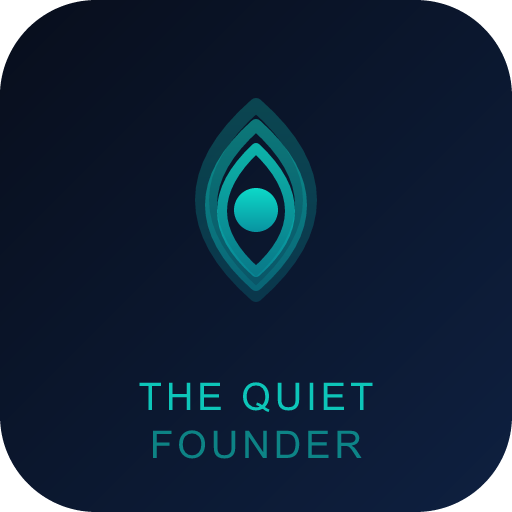
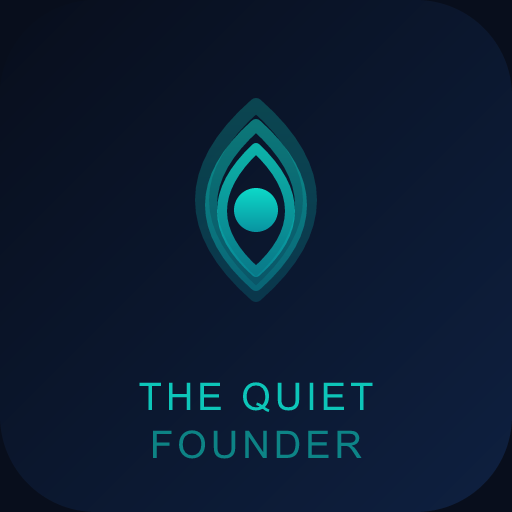
Updated

diff --git a/index.html b/index.html
@@ -10,16 +10,21 @@
     <meta property="og:title" content="The Quiet Founder | அமைதியான நிறுவனர்" />
     <meta property="og:description" content="A Sales & Marketing Bible for the AI Era. Discover markets, sell anything, and scale revenue — alone, online, and outnumbered." />
     <meta property="og:site_name" content="The Quiet Founder" />
+    <meta property="og:image" content="./og-image.png" />
+    <meta property="og:image:width" content="1200" />
+    <meta property="og:image:height" content="630" />
     <meta name="twitter:card" content="summary_large_image" />
     <meta name="twitter:title" content="The Quiet Founder | அமைதியான நிறுவனர்" />
     <meta name="twitter:description" content="A Sales & Marketing Bible for the AI Era. Discover markets, sell anything, and scale revenue — alone, online, and outnumbered." />
+    <meta name="twitter:image" content="./og-image.png" />
+    <link rel="apple-touch-startup-image" href="./pwa-icons/splash-1024.png" />
     <title>The Quiet Founder | அமைதியான நிறுவனர்</title>
     <link rel="manifest" href="./manifest.json" />
     <link rel="icon" type="image/svg+xml" href="./favicon.svg" />
     <link rel="preconnect" href="https://fonts.googleapis.com" />
     <link rel="preconnect" href="https://fonts.gstatic.com" crossorigin />
     <link href="https://fonts.googleapis.com/css2?family=Inter:wght@400;500;600;700;800;900&display=swap" rel="stylesheet" />
-    <script type="module" crossorigin src="./assets/index-DHiyXqXw.js"></script>
+    <script type="module" crossorigin src="./assets/index-CQbrlRZN.js"></script>
     <link rel="modulepreload" crossorigin href="./assets/rolldown-runtime-BCjyngXx.js">
     <link rel="modulepreload" crossorigin href="./assets/vendor-react-BF03Wyq1.js">
     <link rel="modulepreload" crossorigin href="./assets/license-keys-CjzlgJXB.js">